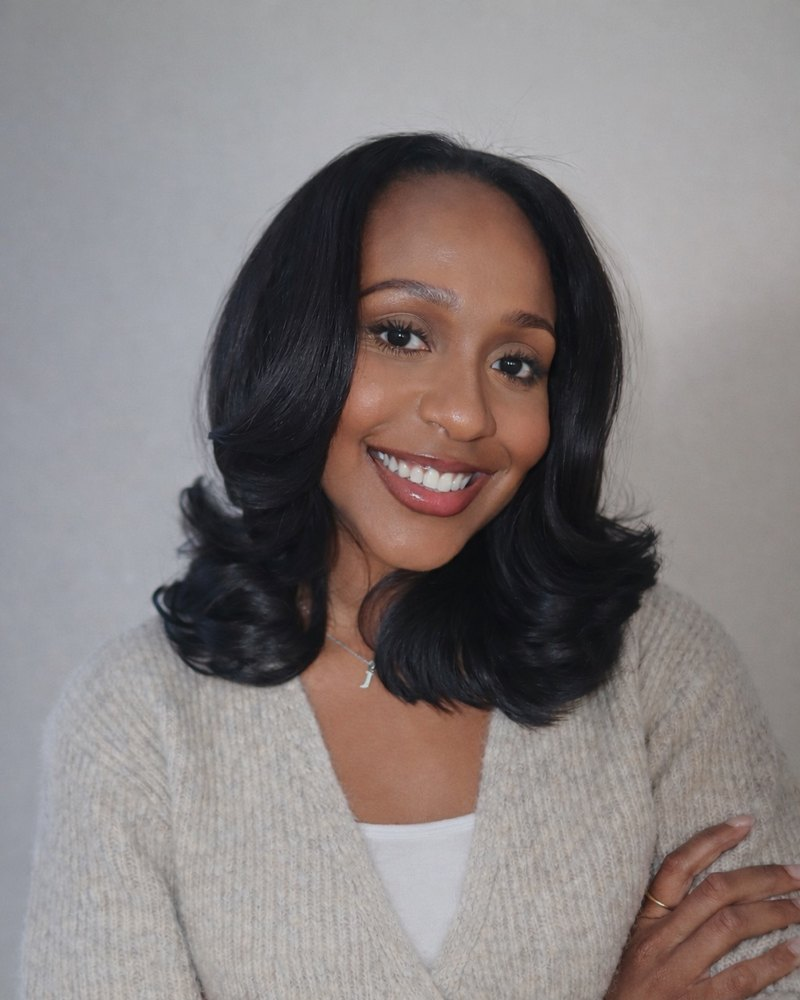
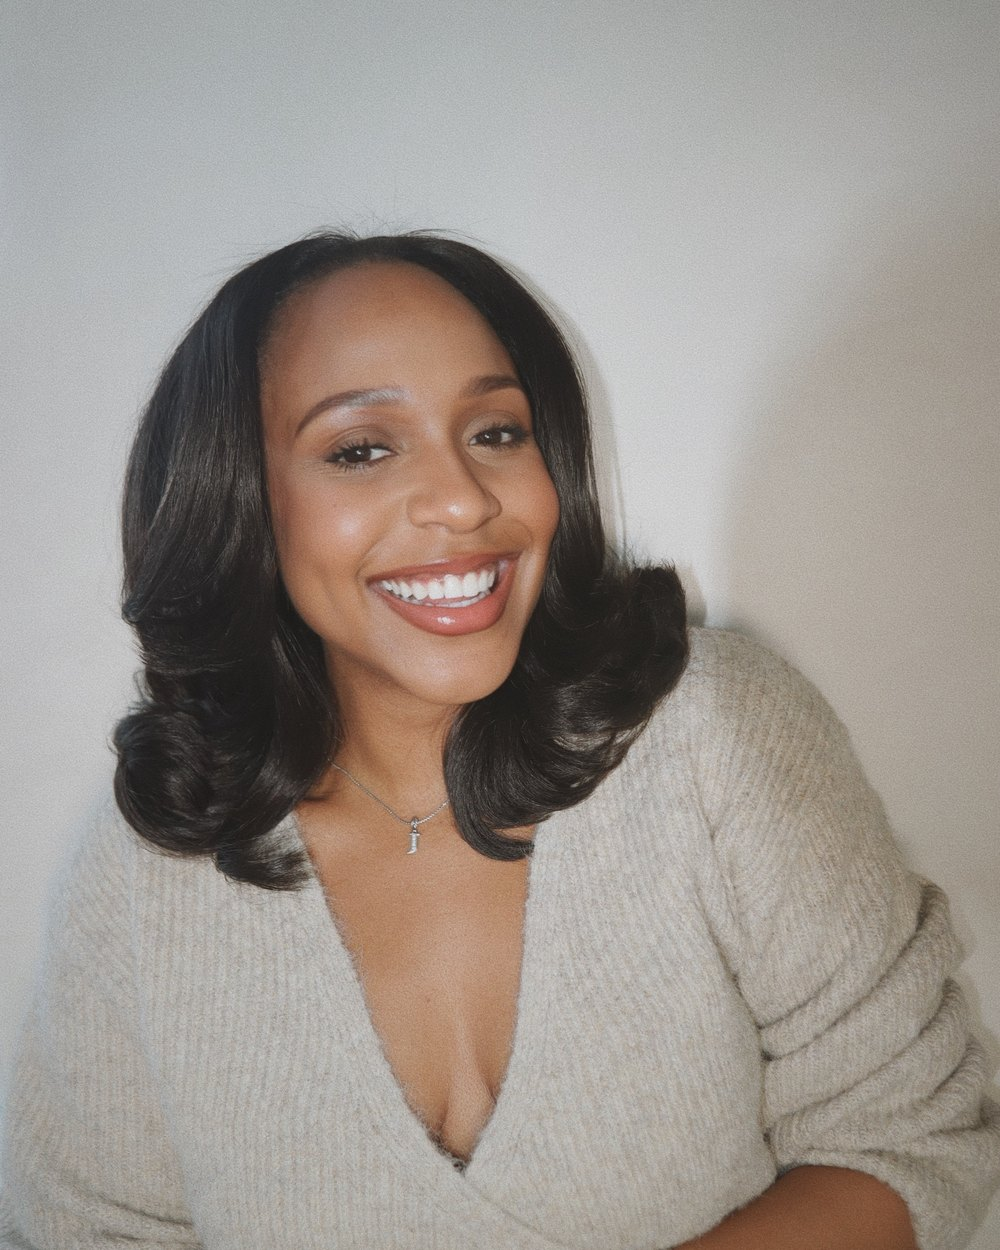
New founder photo on the home page
Cropped to the site's 4:5 frame (1000x1250) and cache-busted so returning
visitors see it.

Claude-Session: https://claude.ai/code/session_01WpYc9rsdLYoxogS9vTcnUz

diff --git a/index.html b/index.html
@@ -639,7 +639,7 @@ a{color:#96262C}a:hover{color:#5E1418}
 <section id="about" style="background: #FFF3E8; padding: clamp(64px, 8vw, 112px) 0">
 <div style="max-width: 1200px; margin: 0 auto; padding: 0 clamp(16px, 4vw, 48px); display: flex; flex-wrap: wrap; align-items: center; gap: 48px 72px">
 <div style="flex: 0 1 340px; min-width: 0">
-<img src="/assets/founder.jpg" alt="Jelyn Andrews, founder and CEO of Pulse" style="width: 100%; aspect-ratio: 4 / 5; object-fit: cover; object-position: center top; border-radius: 22px; display: block">
+<img src="/assets/founder.jpg?v=2" alt="Jelyn Andrews, founder and CEO of Pulse" style="width: 100%; aspect-ratio: 4 / 5; object-fit: cover; object-position: center top; border-radius: 22px; display: block">
 </div>
 <div style="flex: 999 1 420px; min-width: 0">
 <p style="margin: 0 0 14px; font-size: 12px; font-weight: 700; letter-spacing: 0.18em; text-transform: uppercase; color: #AB5B1E">Founder Story</p>
